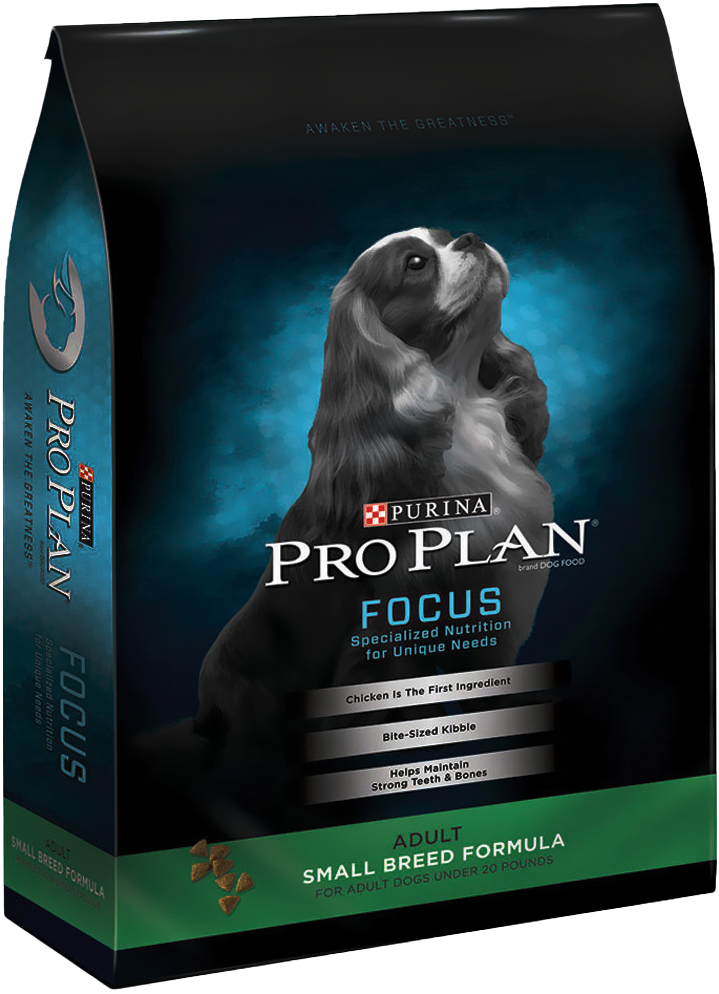
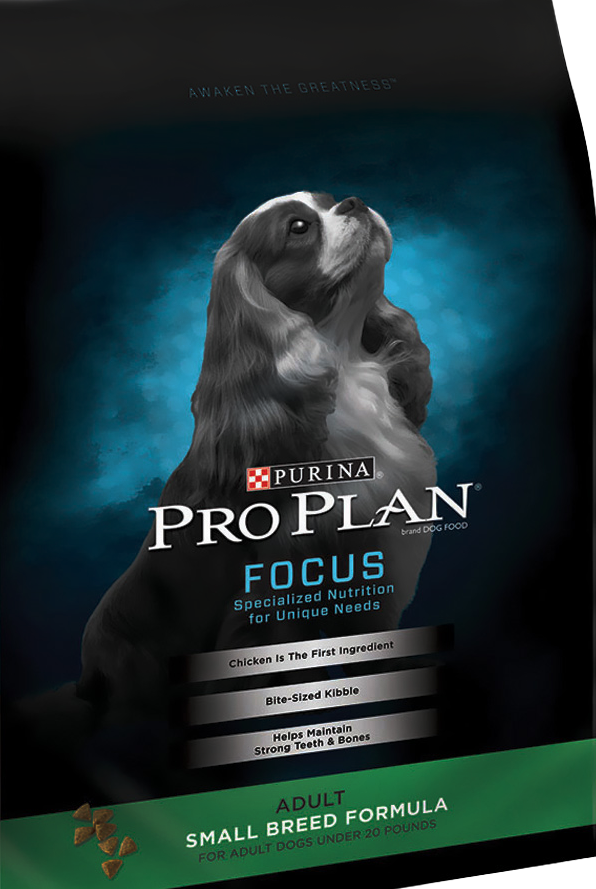
Ajustando a imagem no PS e mudando o scale

diff --git a/assets/css/produto.css b/assets/css/produto.css
@@ -11,7 +11,7 @@
 }
 
 .produto__item {
-    transform: scale(2);
+    transform: scale(1.2);
 }
 
 .produto__descricao {
@@ -20,7 +20,7 @@
     background-color: var(--branco);
 
     padding-top: 3rem;
-    padding-left: 40vw;
+    padding-left: calc(40vw + 2rem);
     
     box-sizing: border-box;
 
